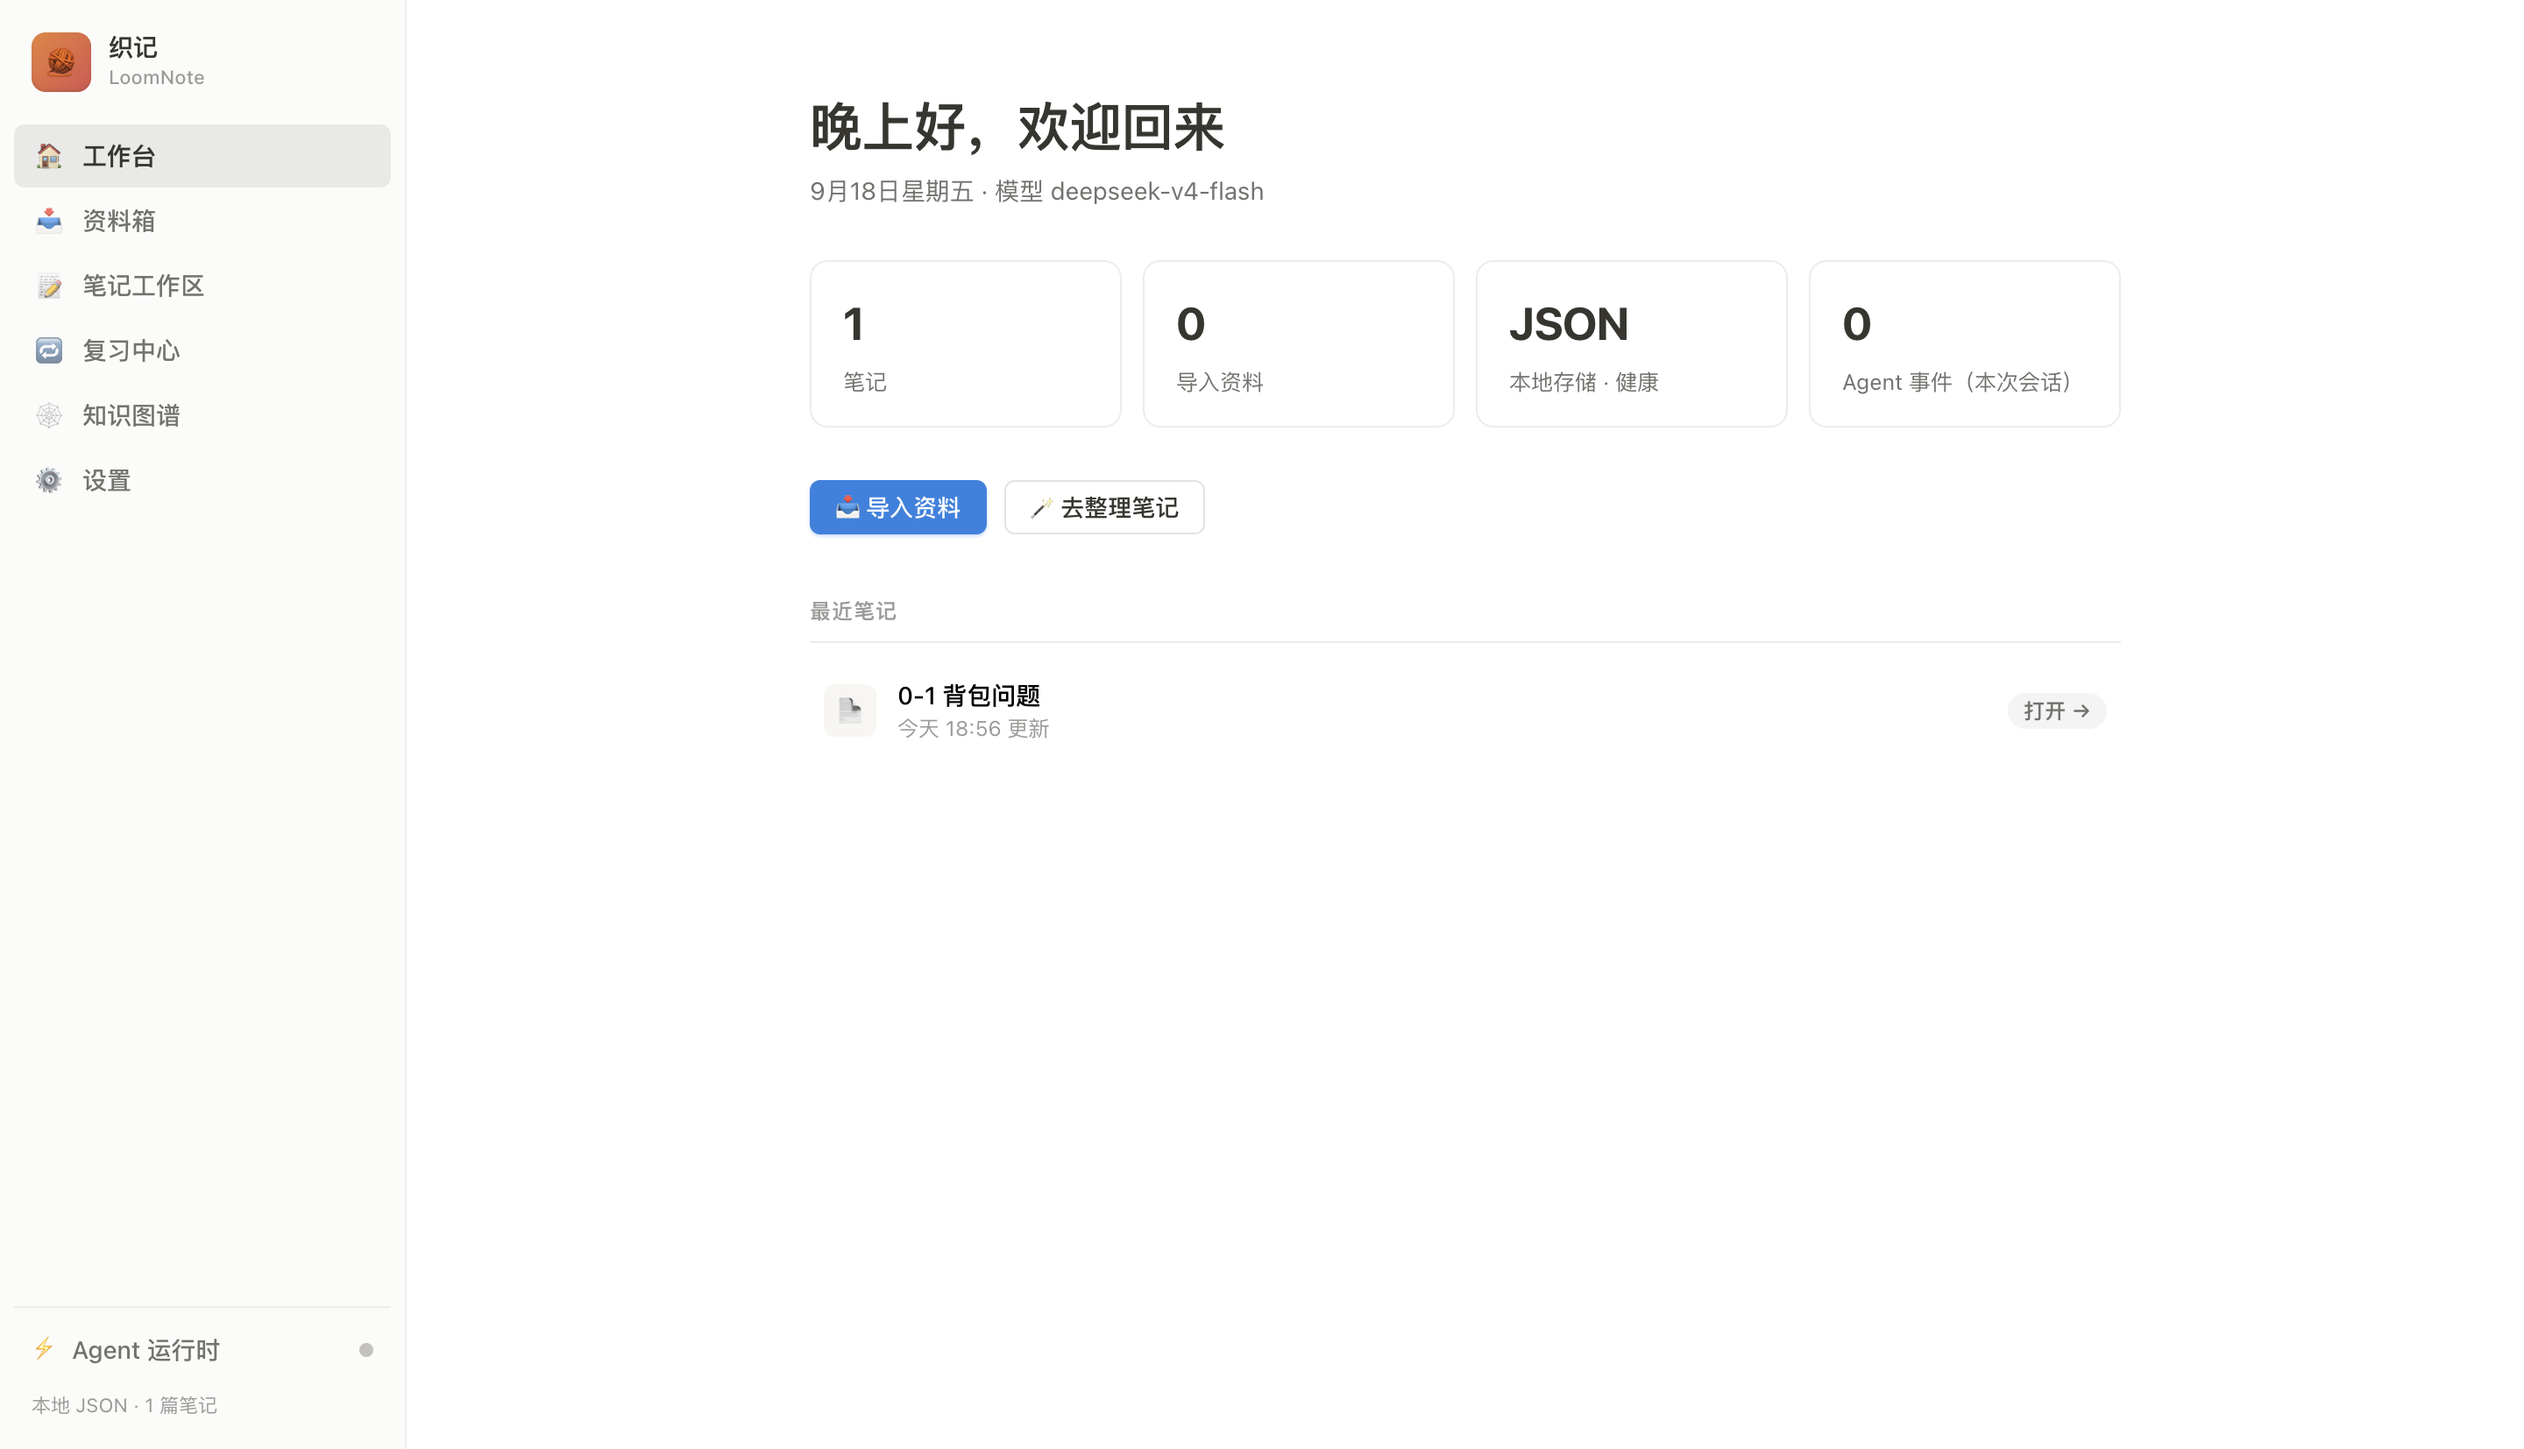
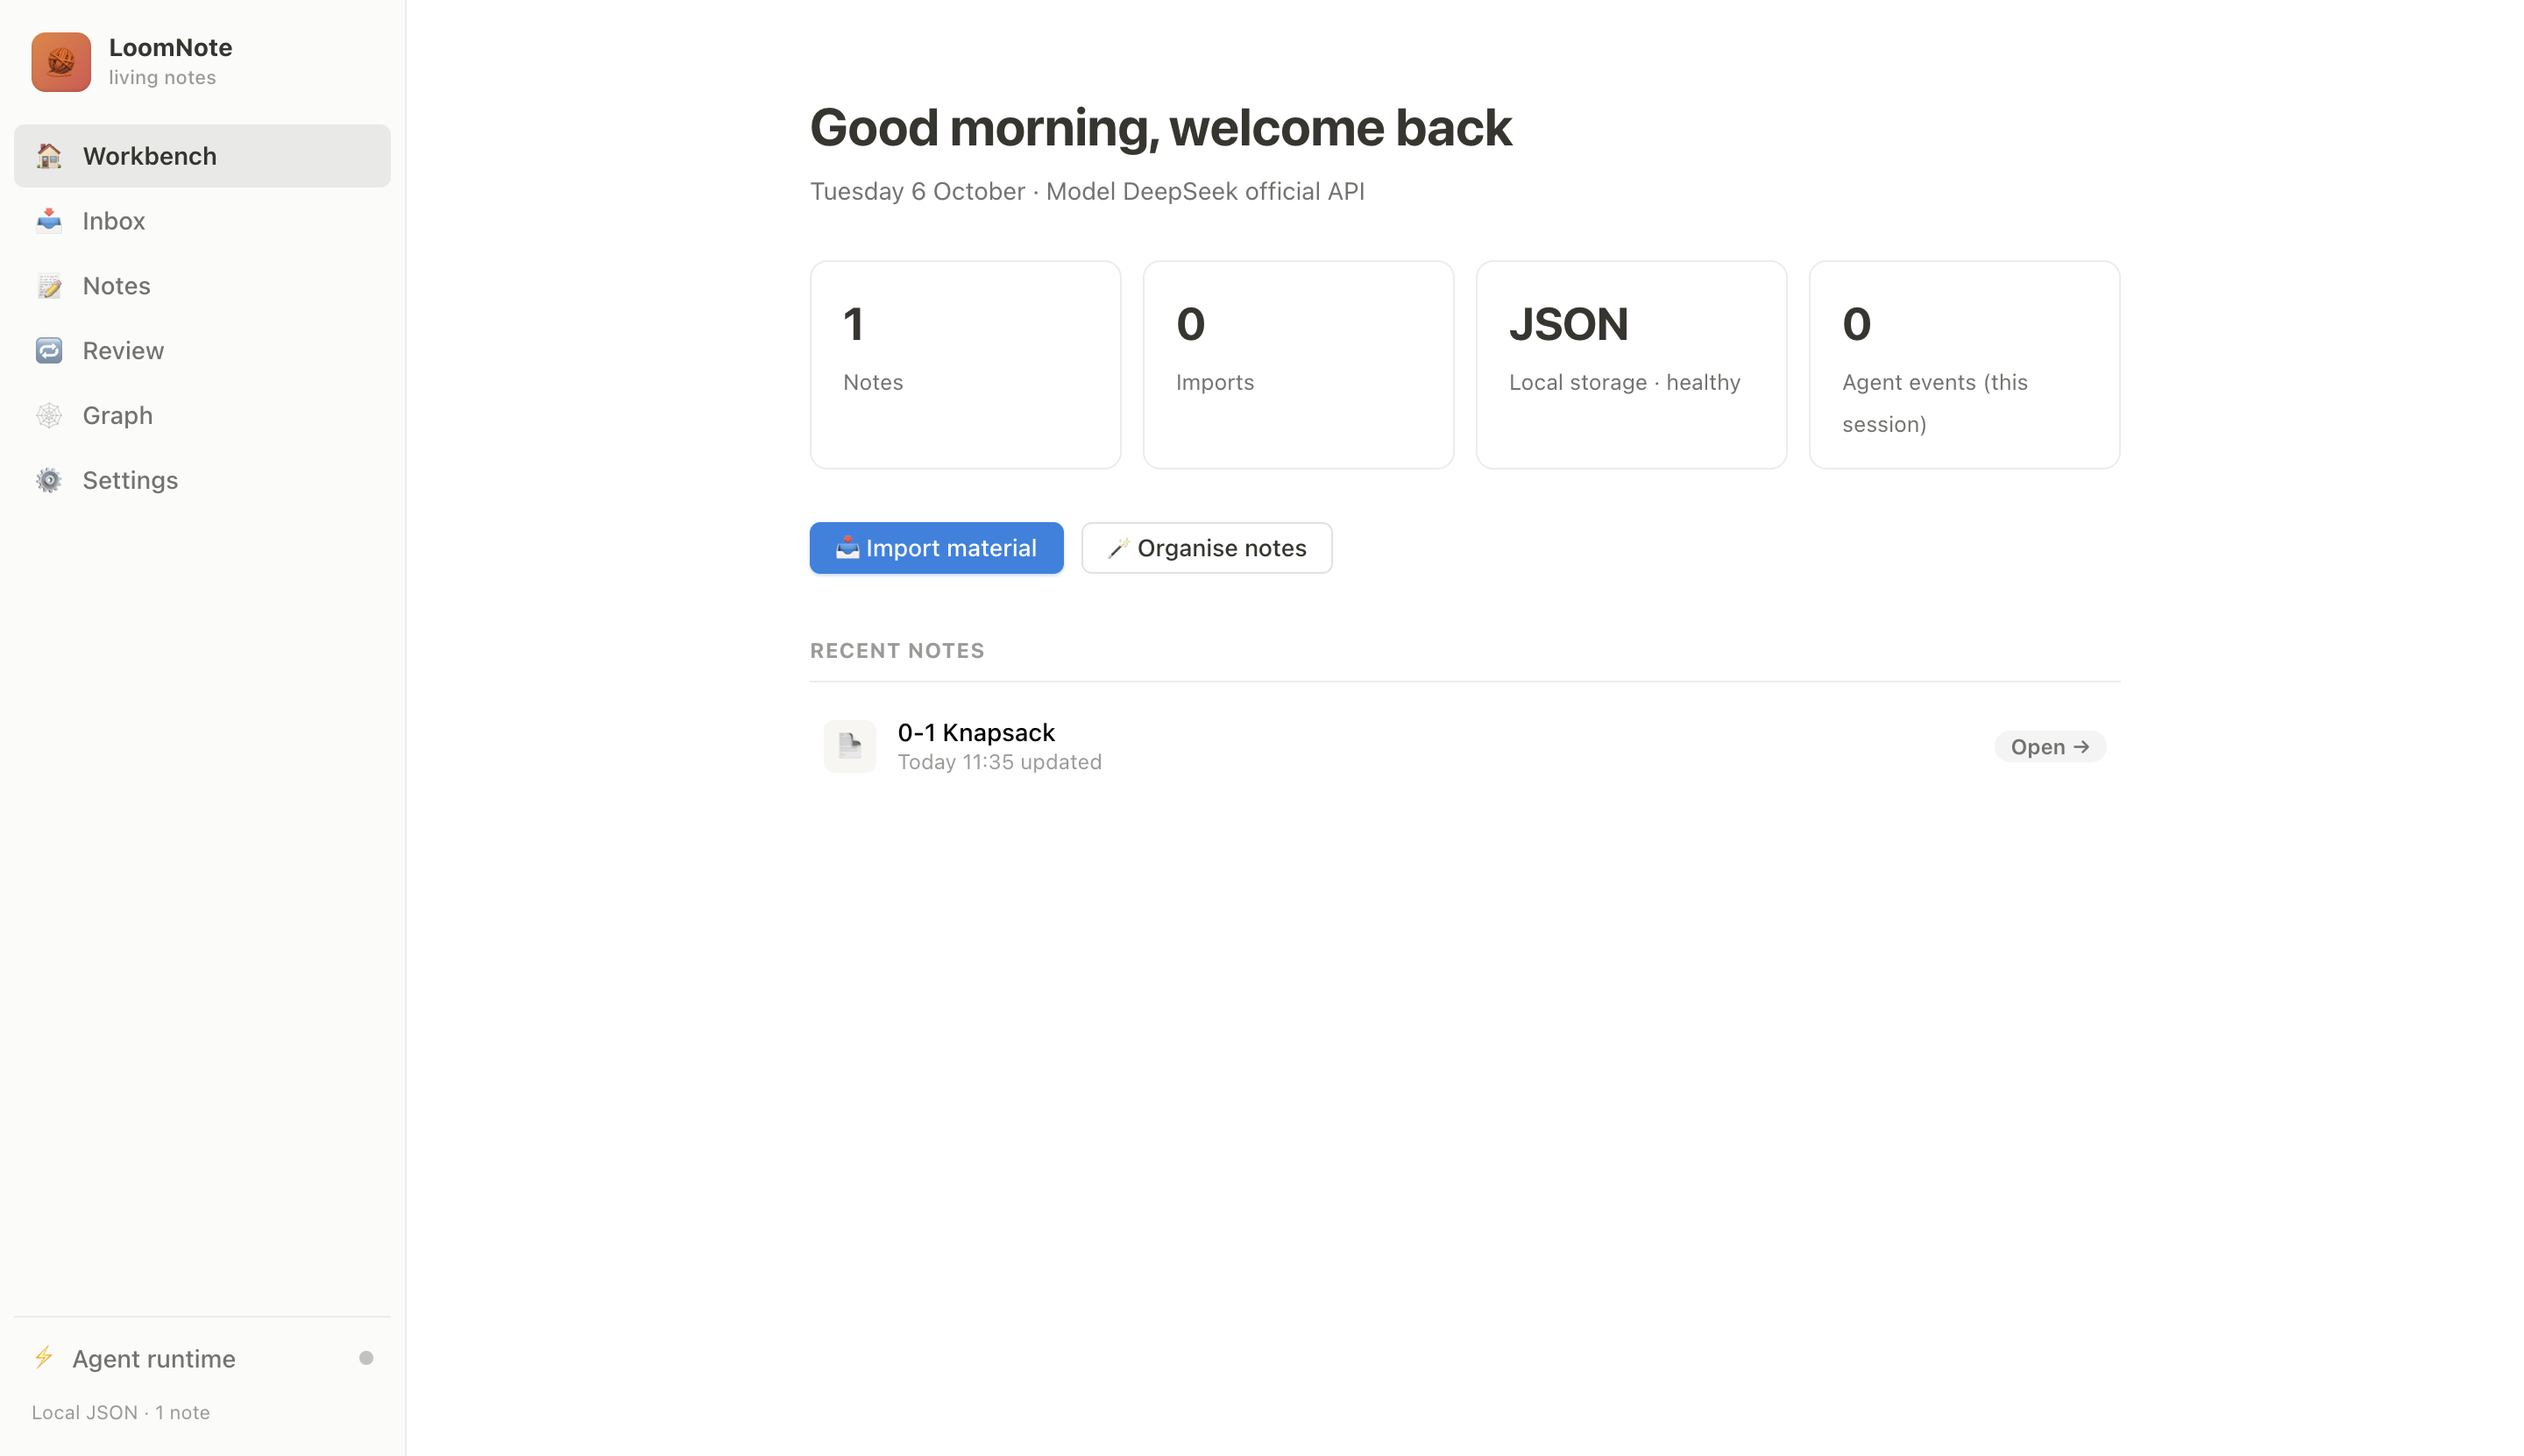
docs(readme): English screenshots and refreshed feature list
- replace the four README screenshots with the English UI build (workbench, note with embedded demo, inbox, settings)
- feature list now reflects the shipped defaults: DeepSeek official API (deepseek-v4.1-flash, 1M output budget) and the English/Chinese interface switch

diff --git a/README.md b/README.md
@@ -14,15 +14,16 @@
 - **Real-time, visible agent** — a dedicated runtime panel shows every step (plan, tool calls, live stream); stop, re-enter a requirement, and watch the note re-render live.
 - **Self-test questions** — the agent generates questions with answers and explanations inline.
 - **Local-first + BYOK** — all data stays in a local SQLite store; bring your own LLM key (any OpenAI-compatible endpoint). No cloud account, no server.
-- **Multi-provider** — built-in presets (DeepSeek official API, Volcengine Ark Coding Plan, GLM 5.3 Flash, local Ollama) plus unlimited custom endpoints.
+- **DeepSeek official out of the box** — ships configured for `deepseek-v4.1-flash` with a 1M-token output budget; any other OpenAI-compatible endpoint (including a model running on the same machine) can be added in Settings.
+- **English and Chinese UI** — one click in Settings switches the interface *and* the language the agent writes notes in; the app follows the system language on first launch.
 
 ## Screenshots
 
-| Workbench | Note with embedded demo |
+| Workbench | Note with an embedded demo (sandboxed, zero external requests) |
 |---|---|
 | ![dashboard](docs/screenshots/dashboard.png) | ![notes](docs/screenshots/notes.png) |
 
-| Inbox | Settings · providers |
+| Inbox | Settings · language, endpoint and agent tools |
 |---|---|
 | ![imports](docs/screenshots/imports.png) | ![settings](docs/screenshots/settings.png) |
 
